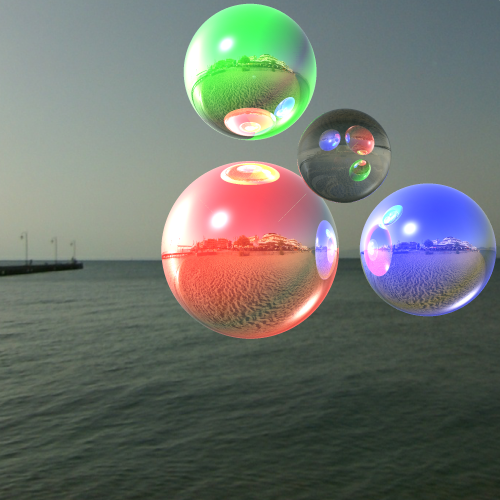
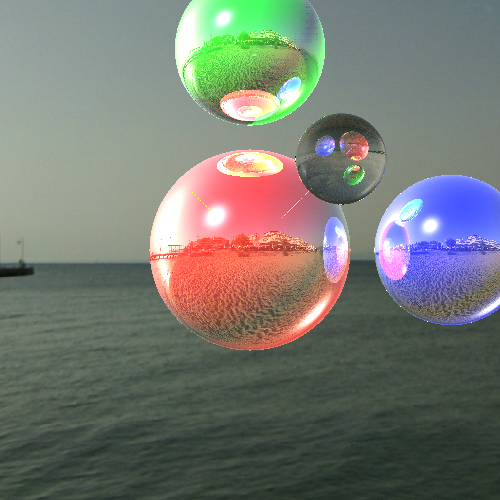
Implement motion blur
(Only for spheres)

diff --git a/Raytracer/Scene.cpp b/Raytracer/Scene.cpp
@@ -35,6 +35,10 @@ float depth_dist;
 //	Vector3f normal;
 //} VertexNormal_t;
 
+int frames = 1;
+vector<Vector3f> accelerations, velocities;
+vector<GeometricPrimitive*> accels, velos;
+
 vector<vector<Transformation*>> transform_stack;
 vector<vector<Transformation*>> inv_transform_stack;
 vector<Transformation*> curr_transform;
@@ -238,7 +242,6 @@ bool parse_file(ifstream* file, string* error, int* err_loc){
 						LL = transform_stack[i][j]->applyTransformation(LL, 1);
 					}
 				}
-				cout << "";
 			}
 			else if (buf == "g"){
 				if (ss >> buf){
@@ -443,11 +446,13 @@ bool parse_file(ifstream* file, string* error, int* err_loc){
 				}
 			}
 			else if (buf == "envmap"){
-				char* filename;
+				string filename;
 				float x1, y1, z1, x2, y2, z2, x3, y3, z3;
 				ss >> filename;
-				ss >> x1 >> y1 >> z1 >> x2 >> y2 >> z2 >> x3 >> y3 >> z3;
-				FIBITMAP* image = FreeImage_Load(FreeImage_GetFIFFromFilename(filename), filename);
+				ss >> x1 >> y1 >> z1;
+				ss >> x2 >> y2 >> z2;
+				ss >> x3 >> y3 >> z3;
+				FIBITMAP* image = FreeImage_Load(FreeImage_GetFIFFromFilename(filename.c_str()), filename.c_str());
 				Parallelogram side = Parallelogram(Point(x1, y1, z1), Point(x2, y2, z2), Point(x3, y3, z3));
 				envImages.push_back(image);
 				envSides.push_back(side);
@@ -455,6 +460,21 @@ bool parse_file(ifstream* file, string* error, int* err_loc){
 			else if (buf == "dof"){
 				ss >> depth_dist;
 				dof = true;
+			}
+			else if (buf == "frames") {
+				ss >> frames;
+			}
+			else if (buf == "velocity") {
+				float dx, dy, dz;
+				ss >> dx >> dy >> dz;
+				velocities.push_back(Vector3f(dx, dy, dz));
+				velos.push_back((GeometricPrimitive*)objs.back());
+			}
+			else if (buf == "acceleration") {
+				float dx, dy, dz;
+				ss >> dx >> dy >> dz;
+				accelerations.push_back(Vector3f(dx, dy, dz));
+				accels.push_back((GeometricPrimitive*)objs.back());
 			}
 			else {
 				/*disallow everything else*/
@@ -496,7 +516,6 @@ int main(int argc, char* argv[]) {
 	std::cout << "Initializing scene..." << endl;
 
 	// Begin main loop
-	float nextX = 0.5, nextY = 0.5;
 
 	Film film = Film(width, height);
 
@@ -509,19 +528,29 @@ int main(int argc, char* argv[]) {
 	size_t num_completed = 0;
 
 	std::cout << "Starting render..." << endl;
-	while (nextY <= height) {
-		Ray ray = generateRay(nextX, nextY);
-		Color color = traceRay(ray, 0);
-		film.storeSample(nextX, nextY, color);
+	for (int i = 0; i < frames; i++) {
+		float nextX = 0.5, nextY = 0.5;
+		while (nextY <= height) {
+			Ray ray = generateRay(nextX, nextY);
+			Color color = traceRay(ray, 0);
+			film.storeSample(nextX, nextY, color);
 
-		// Calculate next sample location
-		nextX += aa_step;
-		if (nextX >= width) {
-			nextY += aa_step;
-			nextX = 0.5;
+			// Calculate next sample location
+			nextX += aa_step;
+			if (nextX >= width) {
+				nextY += aa_step;
+				nextX = 0.5;
+			}
+			if ((++num_completed) % perc == 0){
+				cout << "Progress: " << num_completed / perc << "% -- " << (clock() - start) / (double)CLOCKS_PER_SEC << "s\n";
+			}
 		}
-		if ((++num_completed) % perc == 0){
-			cout << "Progress: " << num_completed / perc << "% -- " << (clock() - start) / (double)CLOCKS_PER_SEC << "s\n";
+
+		for (int j = 0; j < accelerations.size(); j++) {
+			accels.at(j)->shape->setCenter(accels.at(j)->shape->getCenter() + accelerations.at(j) * i);
+		}
+		for (int j = 0; j < velocities.size(); j++) {
+			velos.at(j)->shape->setCenter(velos.at(j)->shape->getCenter() + velocities.at(j));
 		}
 	}
 

diff --git a/Raytracer/shape.h b/Raytracer/shape.h
@@ -27,6 +27,7 @@ public:
 	virtual Vector3f getCenter();
 	virtual Vector3f getMinBB();
 	virtual Vector3f getMaxBB();
+	virtual void setCenter(Point c){};
 };
 
 /**
@@ -51,6 +52,9 @@ public:
 	Vector3f getCenter();
 	Vector3f getMinBB();
 	Vector3f getMaxBB();
+	void setCenter(Point c){
+		center = c;
+	}
 
 private:
 	Point center;

diff --git a/Raytracer/primitive.h b/Raytracer/primitive.h
@@ -71,10 +71,9 @@ public:
  * the material properties of the shape
  */
 class GeometricPrimitive : public Primitive{
-private:
+public:
 	Shape* shape;
 	BRDF brdf;
-public:
 
 	vector<Transformation*> objToWorld;
 	vector<Transformation*> worldToObj;
